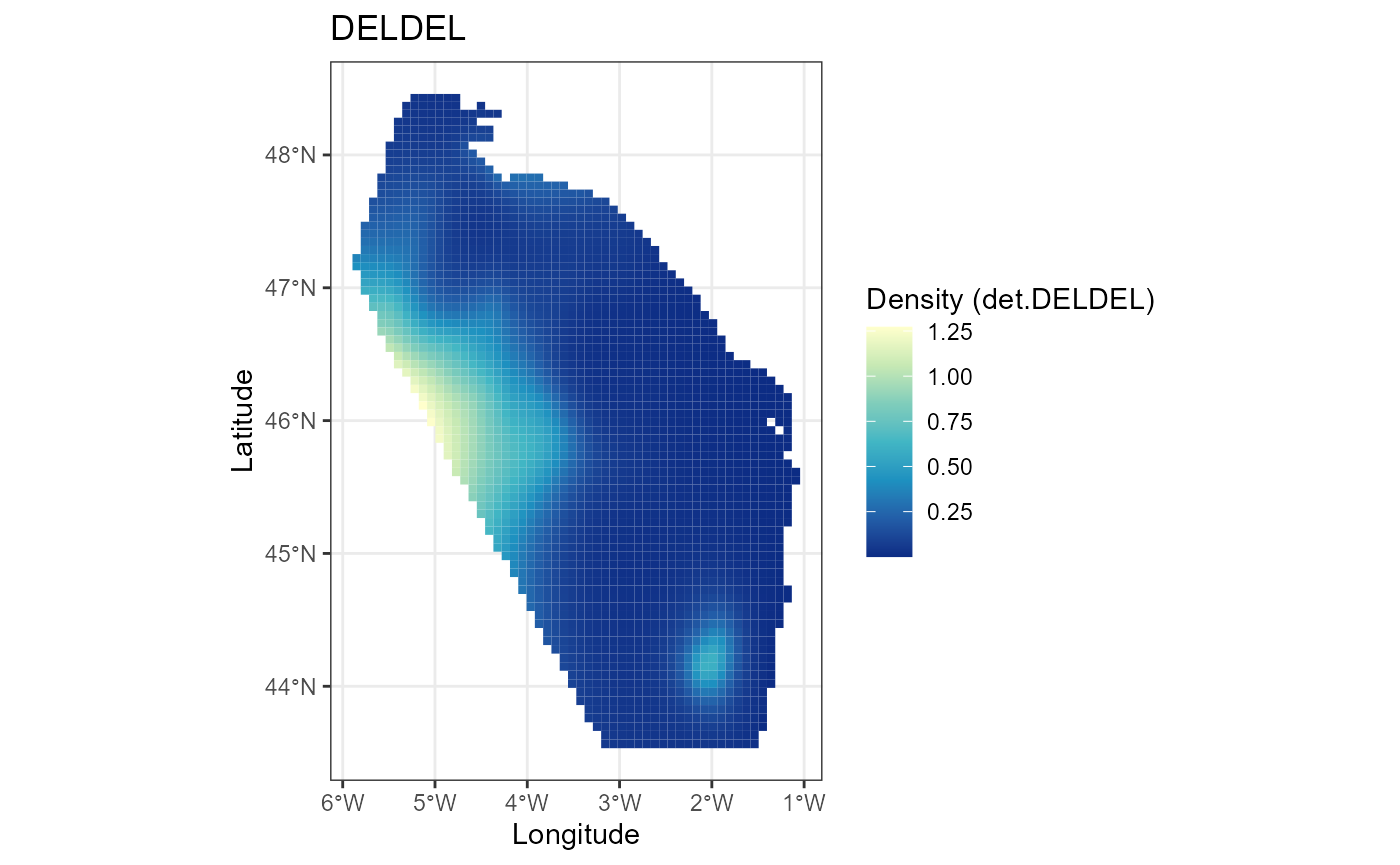
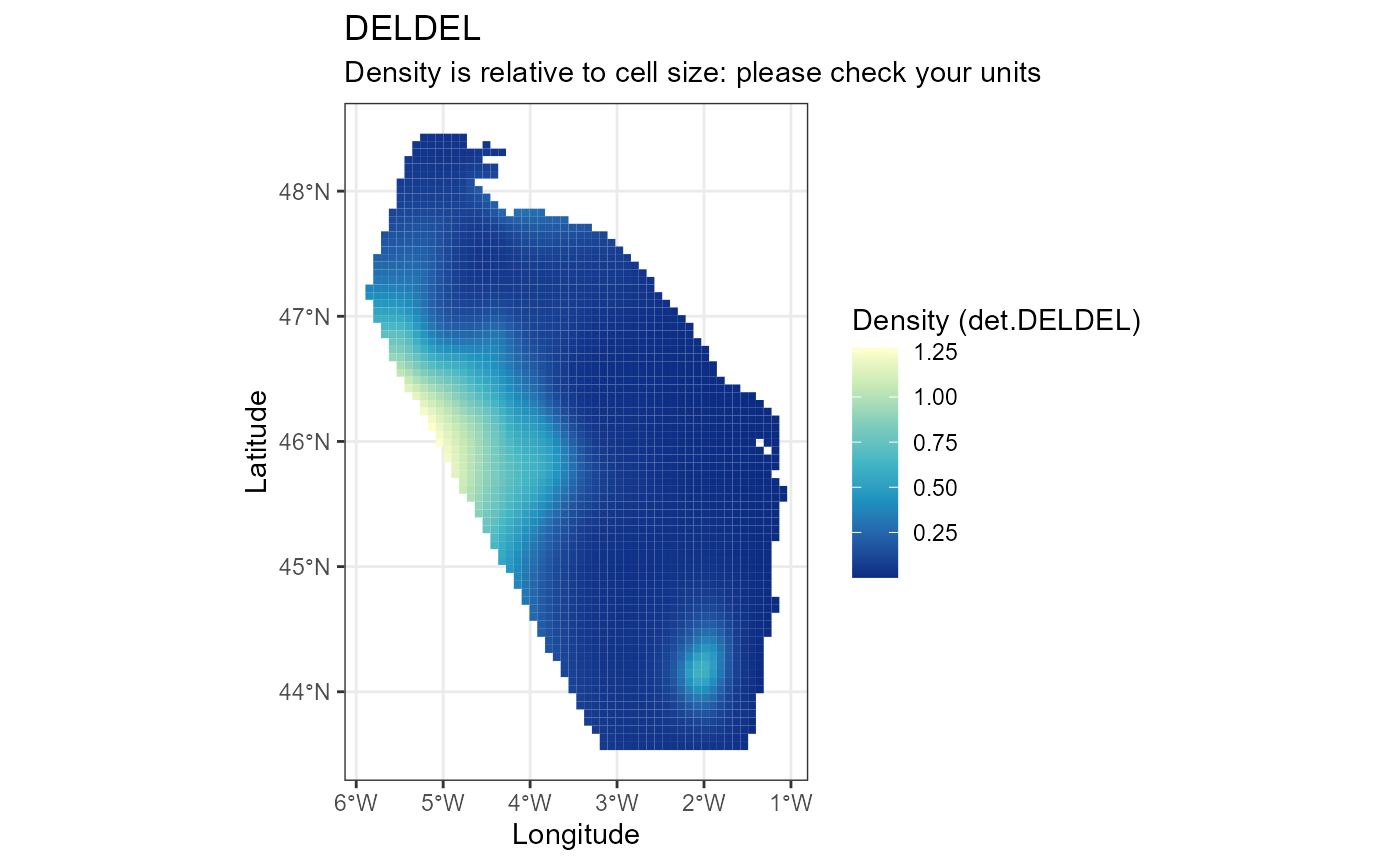
Add files via upload

diff --git a/articles/Processing_climatologies.html b/articles/Processing_climatologies.html
@@ -111,28 +111,27 @@
 <span id="cb2-18"><a href="#cb2-18" aria-hidden="true" tabindex="-1"></a>)</span>
 <span id="cb2-19"><a href="#cb2-19" aria-hidden="true" tabindex="-1"></a><span class="co">#&gt; </span></span>
 <span id="cb2-20"><a href="#cb2-20" aria-hidden="true" tabindex="-1"></a>  <span class="dv">0</span><span class="op">%|</span>          <span class="op">|</span> <span class="dv">0</span><span class="op">/</span><span class="dv">42</span> [<span class="dv">00</span>:<span class="dv">00</span><span class="op">&lt;</span>?, ?it<span class="op">/</span>s]</span>
-<span id="cb2-21"><a href="#cb2-21" aria-hidden="true" tabindex="-1"></a>  <span class="dv">2</span><span class="op">%|</span><span class="dv">2</span>         <span class="op">|</span> <span class="dv">1</span><span class="op">/</span><span class="dv">42</span> [<span class="dv">00</span>:<span class="dv">0</span><span class="er">2</span><span class="op">&lt;</span><span class="dv">0</span><span class="er">1</span>:<span class="dv">47</span>,  <span class="fl">2.62</span><span class="er">s</span><span class="op">/</span>it]</span>
-<span id="cb2-22"><a href="#cb2-22" aria-hidden="true" tabindex="-1"></a>  <span class="dv">7</span><span class="op">%|</span><span class="dv">7</span>         <span class="op">|</span> <span class="dv">3</span><span class="op">/</span><span class="dv">42</span> [<span class="dv">00</span>:<span class="dv">0</span><span class="er">2</span><span class="op">&lt;</span><span class="dv">00</span>:<span class="dv">28</span>,  <span class="fl">1.39</span><span class="er">it</span><span class="op">/</span>s]</span>
-<span id="cb2-23"><a href="#cb2-23" aria-hidden="true" tabindex="-1"></a> <span class="dv">12</span><span class="op">%|</span><span class="co">#1        | 5/42 [00:02&lt;00:15,  2.38it/s]</span></span>
-<span id="cb2-24"><a href="#cb2-24" aria-hidden="true" tabindex="-1"></a> <span class="dv">21</span><span class="op">%|</span><span class="co">##1       | 9/42 [00:03&lt;00:07,  4.41it/s]</span></span>
-<span id="cb2-25"><a href="#cb2-25" aria-hidden="true" tabindex="-1"></a> <span class="dv">31</span><span class="op">%|</span><span class="co">###       | 13/42 [00:07&lt;00:15,  1.83it/s]</span></span>
-<span id="cb2-26"><a href="#cb2-26" aria-hidden="true" tabindex="-1"></a> <span class="dv">36</span><span class="op">%|</span><span class="co">###5      | 15/42 [00:07&lt;00:11,  2.27it/s]</span></span>
-<span id="cb2-27"><a href="#cb2-27" aria-hidden="true" tabindex="-1"></a> <span class="dv">40</span><span class="op">%|</span><span class="co">####      | 17/42 [00:09&lt;00:13,  1.82it/s]</span></span>
-<span id="cb2-28"><a href="#cb2-28" aria-hidden="true" tabindex="-1"></a> <span class="dv">45</span><span class="op">%|</span><span class="co">####5     | 19/42 [00:09&lt;00:10,  2.29it/s]</span></span>
-<span id="cb2-29"><a href="#cb2-29" aria-hidden="true" tabindex="-1"></a> <span class="dv">60</span><span class="op">%|</span><span class="co">#####9    | 25/42 [00:10&lt;00:04,  3.54it/s]</span></span>
-<span id="cb2-30"><a href="#cb2-30" aria-hidden="true" tabindex="-1"></a> <span class="dv">64</span><span class="op">%|</span><span class="co">######4   | 27/42 [00:11&lt;00:05,  2.71it/s]</span></span>
-<span id="cb2-31"><a href="#cb2-31" aria-hidden="true" tabindex="-1"></a> <span class="dv">74</span><span class="op">%|</span><span class="co">#######3  | 31/42 [00:13&lt;00:04,  2.36it/s]</span></span>
-<span id="cb2-32"><a href="#cb2-32" aria-hidden="true" tabindex="-1"></a> <span class="dv">83</span><span class="op">%|</span><span class="co">########3 | 35/42 [00:13&lt;00:02,  3.34it/s]</span></span>
-<span id="cb2-33"><a href="#cb2-33" aria-hidden="true" tabindex="-1"></a> <span class="dv">93</span><span class="op">%|</span><span class="co">#########2| 39/42 [00:14&lt;00:00,  4.56it/s]</span></span>
-<span id="cb2-34"><a href="#cb2-34" aria-hidden="true" tabindex="-1"></a><span class="dv">100</span><span class="op">%|</span><span class="co">##########| 42/42 [00:14&lt;00:00,  2.96it/s]</span></span>
-<span id="cb2-35"><a href="#cb2-35" aria-hidden="true" tabindex="-1"></a><span class="co">#&gt; ResponseSubset(file_path=WindowsPath('C:/Users/gchero/AppData/Local/Temp/Rtmp4UU5T4/cmems_mod_ibi_phy_my_0.083deg-3D_P1D-m_multi-vars_5.92W-0.00W_43.00N-49.00N_0.51m_2022-04-01-2023-05-31.nc'), output_directory=WindowsPath('C:/Users/gchero/AppData/Local/Temp/Rtmp4UU5T4'), filename='cmems_mod_ibi_phy_my_0.083deg-3D_P1D-m_multi-vars_5.92W-0.00W_43.00N-49.00N_0.51m_2022-04-01-2023-05-31.nc', file_size=29.924053435114505, data_transfer_size=820.294351145038, variables=['bottomT', 'mlotst', 'so', 'thetao', 'uo', 'vo', 'zos'], coordinates_extent=[GeographicalExtent(minimum=-5.9166669845581055, maximum=-7.599999776175537e-07, unit='degrees_east', coordinate_id='longitude'), GeographicalExtent(minimum=43.0, maximum=49.0, unit='degrees_north', coordinate_id='latitude'), TimeExtent(minimum='2022-04-01T00:00:00+00:00', maximum='2023-05-31T00:00:00+00:00', unit='iso8601', coordinate_id='time'), GeographicalExtent(minimum=0.5057600140571594, maximum=0.5057600140571594, unit='m', coordinate_id='depth')], status='000', message='The request was successful.', file_status='DOWNLOADED')</span></span></code></pre></div>
+<span id="cb2-21"><a href="#cb2-21" aria-hidden="true" tabindex="-1"></a>  <span class="dv">2</span><span class="op">%|</span><span class="dv">2</span>         <span class="op">|</span> <span class="dv">1</span><span class="op">/</span><span class="dv">42</span> [<span class="dv">00</span>:<span class="dv">0</span><span class="er">2</span><span class="op">&lt;</span><span class="dv">0</span><span class="er">1</span>:<span class="dv">44</span>,  <span class="fl">2.56</span><span class="er">s</span><span class="op">/</span>it]</span>
+<span id="cb2-22"><a href="#cb2-22" aria-hidden="true" tabindex="-1"></a>  <span class="dv">7</span><span class="op">%|</span><span class="dv">7</span>         <span class="op">|</span> <span class="dv">3</span><span class="op">/</span><span class="dv">42</span> [<span class="dv">00</span>:<span class="dv">0</span><span class="er">2</span><span class="op">&lt;</span><span class="dv">00</span>:<span class="dv">27</span>,  <span class="fl">1.40</span><span class="er">it</span><span class="op">/</span>s]</span>
+<span id="cb2-23"><a href="#cb2-23" aria-hidden="true" tabindex="-1"></a> <span class="dv">12</span><span class="op">%|</span><span class="co">#1        | 5/42 [00:02&lt;00:15,  2.40it/s]</span></span>
+<span id="cb2-24"><a href="#cb2-24" aria-hidden="true" tabindex="-1"></a> <span class="dv">21</span><span class="op">%|</span><span class="co">##1       | 9/42 [00:03&lt;00:09,  3.59it/s]</span></span>
+<span id="cb2-25"><a href="#cb2-25" aria-hidden="true" tabindex="-1"></a> <span class="dv">31</span><span class="op">%|</span><span class="co">###       | 13/42 [00:07&lt;00:15,  1.86it/s]</span></span>
+<span id="cb2-26"><a href="#cb2-26" aria-hidden="true" tabindex="-1"></a> <span class="dv">36</span><span class="op">%|</span><span class="co">###5      | 15/42 [00:07&lt;00:11,  2.30it/s]</span></span>
+<span id="cb2-27"><a href="#cb2-27" aria-hidden="true" tabindex="-1"></a> <span class="dv">40</span><span class="op">%|</span><span class="co">####      | 17/42 [00:09&lt;00:13,  1.81it/s]</span></span>
+<span id="cb2-28"><a href="#cb2-28" aria-hidden="true" tabindex="-1"></a> <span class="dv">50</span><span class="op">%|</span><span class="co">#####     | 21/42 [00:09&lt;00:07,  2.89it/s]</span></span>
+<span id="cb2-29"><a href="#cb2-29" aria-hidden="true" tabindex="-1"></a> <span class="dv">60</span><span class="op">%|</span><span class="co">#####9    | 25/42 [00:10&lt;00:05,  3.29it/s]</span></span>
+<span id="cb2-30"><a href="#cb2-30" aria-hidden="true" tabindex="-1"></a> <span class="dv">64</span><span class="op">%|</span><span class="co">######4   | 27/42 [00:11&lt;00:04,  3.07it/s]</span></span>
+<span id="cb2-31"><a href="#cb2-31" aria-hidden="true" tabindex="-1"></a> <span class="dv">83</span><span class="op">%|</span><span class="co">########3 | 35/42 [00:13&lt;00:01,  3.56it/s]</span></span>
+<span id="cb2-32"><a href="#cb2-32" aria-hidden="true" tabindex="-1"></a> <span class="dv">93</span><span class="op">%|</span><span class="co">#########2| 39/42 [00:13&lt;00:00,  4.36it/s]</span></span>
+<span id="cb2-33"><a href="#cb2-33" aria-hidden="true" tabindex="-1"></a><span class="dv">100</span><span class="op">%|</span><span class="co">##########| 42/42 [00:13&lt;00:00,  3.11it/s]</span></span>
+<span id="cb2-34"><a href="#cb2-34" aria-hidden="true" tabindex="-1"></a><span class="co">#&gt; ResponseSubset(file_path=WindowsPath('C:/Users/gchero/AppData/Local/Temp/RtmpCaYalb/cmems_mod_ibi_phy_my_0.083deg-3D_P1D-m_multi-vars_5.92W-0.00W_43.00N-49.00N_0.51m_2022-04-01-2023-05-31.nc'), output_directory=WindowsPath('C:/Users/gchero/AppData/Local/Temp/RtmpCaYalb'), filename='cmems_mod_ibi_phy_my_0.083deg-3D_P1D-m_multi-vars_5.92W-0.00W_43.00N-49.00N_0.51m_2022-04-01-2023-05-31.nc', file_size=29.924053435114505, data_transfer_size=820.294351145038, variables=['bottomT', 'mlotst', 'so', 'thetao', 'uo', 'vo', 'zos'], coordinates_extent=[GeographicalExtent(minimum=-5.9166669845581055, maximum=-7.599999776175537e-07, unit='degrees_east', coordinate_id='longitude'), GeographicalExtent(minimum=43.0, maximum=49.0, unit='degrees_north', coordinate_id='latitude'), TimeExtent(minimum='2022-04-01T00:00:00+00:00', maximum='2023-05-31T00:00:00+00:00', unit='iso8601', coordinate_id='time'), GeographicalExtent(minimum=0.5057600140571594, maximum=0.5057600140571594, unit='m', coordinate_id='depth')], status='000', message='The request was successful.', file_status='DOWNLOADED')</span></span></code></pre></div>
 </div>
 <p>The function import a ‘.nc’ files with all the climatologies downloaded in the area for the complete period.</p>
 <div class="cell">
 <div class="sourceCode cell-code" id="cb3"><pre class="downlit sourceCode r">
 <code class="sourceCode R"><span><span class="va">file_nc</span> <span class="op">&lt;-</span> <span class="fu"><a href="https://rdrr.io/r/base/list.files.html" class="external-link">list.files</a></span><span class="op">(</span><span class="va">temp_file</span>, full.names <span class="op">=</span> <span class="cn">TRUE</span>, pattern<span class="op">=</span><span class="st">".nc"</span><span class="op">)</span></span>
 <span><span class="va">file_nc</span></span>
-<span><span class="co">#&gt; [1] "C:\\Users\\gchero\\AppData\\Local\\Temp\\Rtmp4UU5T4/cmems_mod_ibi_phy_my_0.083deg-3D_P1D-m_multi-vars_5.92W-0.00W_43.00N-49.00N_0.51m_2022-04-01-2023-05-31.nc"</span></span></code></pre></div>
+<span><span class="co">#&gt; [1] "C:\\Users\\gchero\\AppData\\Local\\Temp\\RtmpCaYalb/cmems_mod_ibi_phy_my_0.083deg-3D_P1D-m_multi-vars_5.92W-0.00W_43.00N-49.00N_0.51m_2022-04-01-2023-05-31.nc"</span></span></code></pre></div>
 </div>
 </section><section class="section level2"><h2 id="manipulate-climatologies">2 - Manipulate climatologies<a class="anchor" aria-label="anchor" href="#manipulate-climatologies"></a>
 </h2>
@@ -298,8 +297,8 @@
 <div class="sourceCode cell-code" id="cb6"><pre class="downlit sourceCode r">
 <code class="sourceCode R"><span><span class="va">file_tif</span> <span class="op">&lt;-</span> <span class="fu"><a href="https://rdrr.io/r/base/list.files.html" class="external-link">list.files</a></span><span class="op">(</span><span class="va">temp_file</span>, pattern <span class="op">=</span> <span class="st">'.tif'</span>, full.names <span class="op">=</span> <span class="cn">TRUE</span><span class="op">)</span></span>
 <span><span class="va">file_tif</span></span>
-<span><span class="co">#&gt; [1] "C:\\Users\\gchero\\AppData\\Local\\Temp\\Rtmp4UU5T4/2023_April.tif"</span></span>
-<span><span class="co">#&gt; [2] "C:\\Users\\gchero\\AppData\\Local\\Temp\\Rtmp4UU5T4/2023_May.tif"</span></span></code></pre></div>
+<span><span class="co">#&gt; [1] "C:\\Users\\gchero\\AppData\\Local\\Temp\\RtmpCaYalb/2023_April.tif"</span></span>
+<span><span class="co">#&gt; [2] "C:\\Users\\gchero\\AppData\\Local\\Temp\\RtmpCaYalb/2023_May.tif"</span></span></code></pre></div>
 </div>
 <div class="cell">
 <div class="sourceCode cell-code" id="cb7"><pre class="downlit sourceCode r">
@@ -461,8 +460,8 @@
 <code class="sourceCode R"><span><span class="fu"><a href="https://rdrr.io/r/base/unlink.html" class="external-link">unlink</a></span><span class="op">(</span><span class="va">temp_file</span>, recursive <span class="op">=</span> <span class="cn">TRUE</span>, force <span class="op">=</span> <span class="cn">TRUE</span><span class="op">)</span></span>
 <span><span class="fu"><a href="https://rdrr.io/r/base/list.files.html" class="external-link">list.files</a></span><span class="op">(</span><span class="va">temp_file</span><span class="op">)</span></span>
 <span><span class="co">#&gt; [1] "cmems_mod_ibi_phy_my_0.083deg-3D_P1D-m_multi-vars_5.92W-0.00W_43.00N-49.00N_0.51m_2022-04-01-2023-05-31.nc"</span></span>
-<span><span class="co">#&gt; [2] "file225c594c416"                                                                                           </span></span>
-<span><span class="co">#&gt; [3] "Rf225c20a82713"</span></span></code></pre></div>
+<span><span class="co">#&gt; [2] "file58f43a22d7a"                                                                                           </span></span>
+<span><span class="co">#&gt; [3] "Rf58f445482952"</span></span></code></pre></div>
 </div>
 </section><script id="quarto-html-after-body" type="application/javascript">
 window.document.addEventListener("DOMContentLoaded", function (event) {

diff --git a/articles/calculation.html b/articles/calculation.html
@@ -391,6 +391,7 @@
 <span><span class="co">#&gt; </span></span>
 <span><span class="co">#&gt; REML score: 409.4854</span></span>
 <span><span class="co">#&gt; <span style="color: #00BBBB;">──</span> <span style="font-weight: bold;">Make prediction</span> <span style="color: #00BBBB;">─────────────────────────────────────────────────────────────</span></span></span>
+<span><span class="co">#&gt; Beware of units for density surface.</span></span>
 <span><span class="co">#&gt; DELDEL has a mean density at 0.178 with min= 0 and max= 1.272.</span></span>
 <span><span class="co">#&gt; $model_data</span></span>
 <span><span class="co">#&gt; </span></span>
